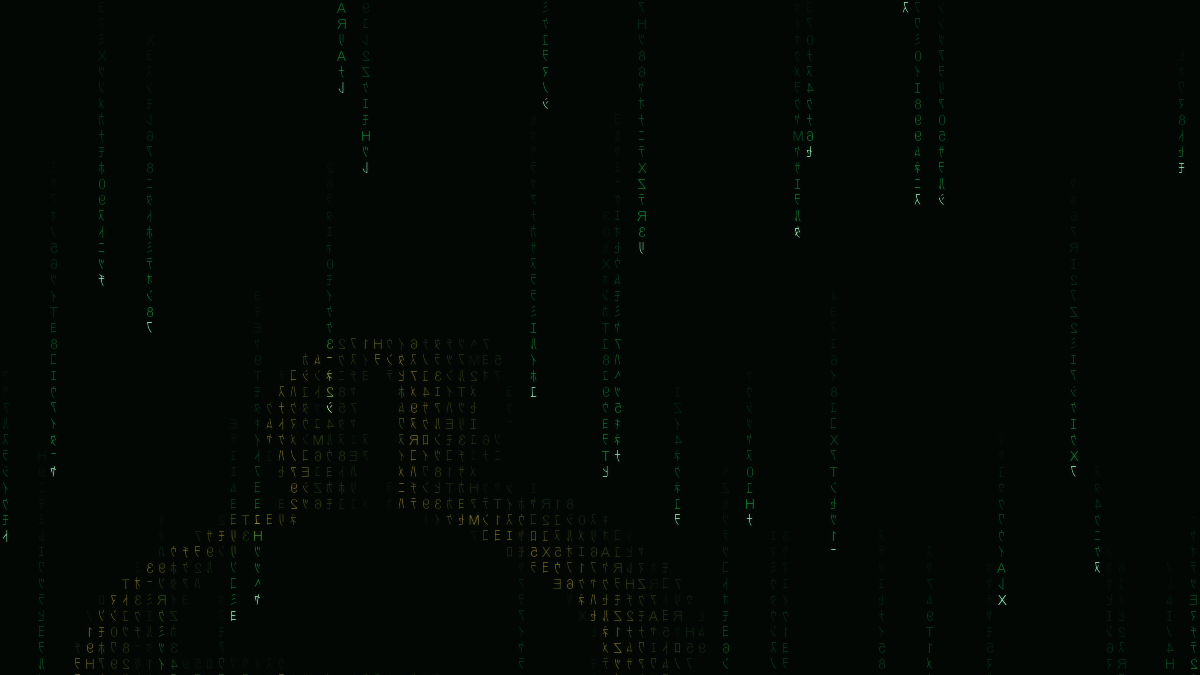
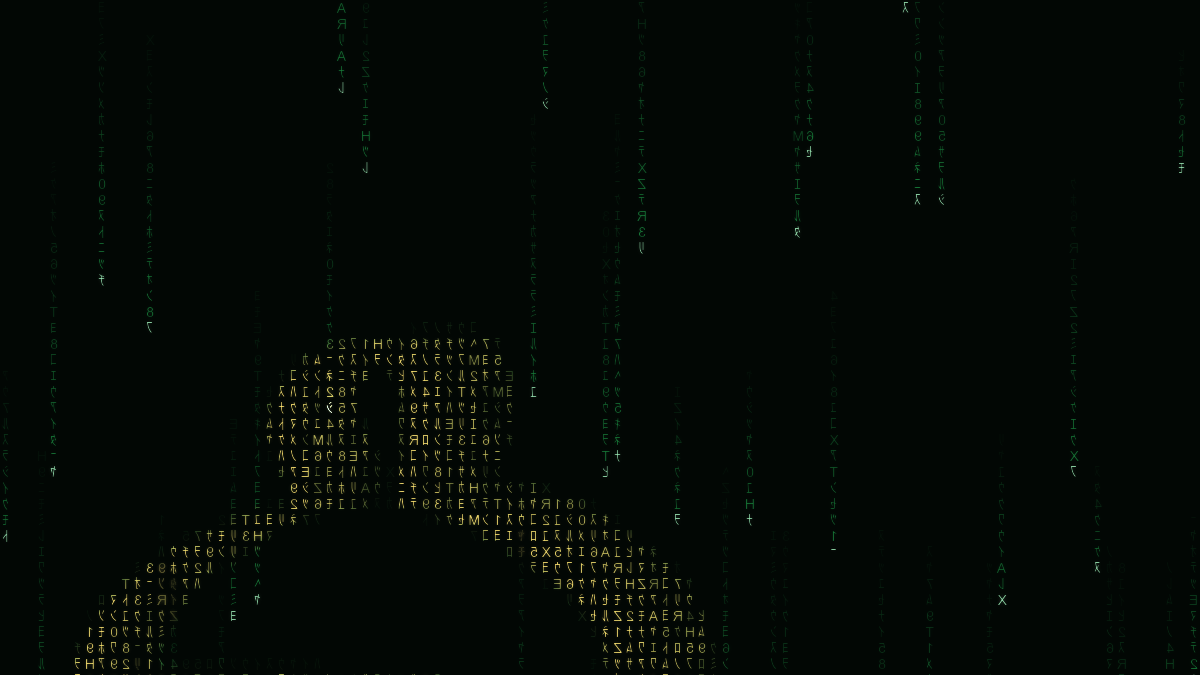
Docs: 5 s fade, brighter gold defaults, re-rendered motion images

diff --git a/docs/index.html b/docs/index.html
@@ -214,7 +214,7 @@ cd iterm2-matrix-rain
       <p class="note" style="margin: 10px 0 4px;">To turn it off, disable it and restart the daemon:</p>
       <pre class="cmd"><code>.venv/bin/matrix-rain camera disable</code></pre>
       <ul style="margin-top: 14px;">
-        <li>Where something moves, the rain draws a gold outline of it, then fades back to green over about 1.5 s.</li>
+        <li>Where something moves, the rain draws a gold outline of it, then fades back to green over about 5 s.</li>
         <li>New motion bursts brighter for the first 3 s, then settles.</li>
         <li>The camera opens only while the rain animates at full rate, so its light is off when idle.</li>
         <li>It reads a low-resolution motion mask.  Nothing is recorded or stored.</li>

diff --git a/README.md b/README.md
@@ -15,7 +15,7 @@ iTerm2 does not animate GIF backgrounds.  A small daemon renders soft PNG frames
 
 ## Camera motion (optional, off by default)
 
-With the camera turned on, the rain draws a gold outline around whatever moves in front of the Mac's camera, such as you, and fades back over a second and a half.  The gold is stronger for the first few seconds after you start moving.  It is off until you run `matrix-rain camera enable`, and nothing is recorded or stored.  See [Camera motion](#camera-motion) for details.
+With the camera turned on, the rain draws a gold outline around whatever moves in front of the Mac's camera, such as you, and fades back over about five seconds.  The gold is stronger for the first few seconds after you start moving.  It is off until you run `matrix-rain camera enable`, and nothing is recorded or stored.  See [Camera motion](#camera-motion) for details.
 
 ![Motion tint](docs/preview-motion.png)
 
@@ -163,17 +163,17 @@ pkill -f 'matrix[-_]rain daemon'; osascript ~/Library/Application\ Support/iTerm
 | Key under `[camera]` | Default | Meaning |
 |---|---|---|
 | `enabled` | `false` | Use the camera at all |
-| `tint` | `[230, 180, 60]` | Tail color where something moved |
-| `head_tint` | `[255, 232, 150]` | Head color where something moved |
-| `fade` | `1.5` | Seconds for a cell to return to normal after motion stops |
+| `tint` | `[250, 205, 80]` | Tail color where something moved |
+| `head_tint` | `[255, 245, 200]` | Head color where something moved |
+| `fade` | `5.0` | Seconds for a cell to return to normal after motion stops |
 | `sensitivity` | `0.5` | 0 reacts only to large changes, 1 to small ones too; 0.5 is a 24 gray-level threshold, which `camera test` prints |
 | `strength` | `1.0` | How far moving cells shift toward the tint, 0 to 1 |
 | `shape` | `"outline"` | `"outline"`: the gold edge of what moved; `"fill"`: the whole moving area |
 | `burst` | `3.0` | Seconds of stronger gold when motion starts after a rest |
 | `burst_rest` | `2.0` | Seconds of stillness before the next motion bursts |
-| `burst_strength` | `1.4` | Brightness multiplier for gold cells during a burst |
-| `burst_tint`, `burst_head_tint` | `[245, 200, 80]`, `[255, 245, 190]` | Tail and head colors during a burst |
-| `fill` | `0.4` | Dim glyphs lit in moving cells where no rain falls, so the shape reads; 0 turns it off |
+| `burst_strength` | `1.7` | Brightness multiplier for gold cells during a burst |
+| `burst_tint`, `burst_head_tint` | `[255, 220, 110]`, `[255, 252, 225]` | Tail and head colors during a burst |
+| `fill` | `0.7` | Dim glyphs lit in moving cells where no rain falls, so the shape reads; 0 turns it off |
 | `fps` | `10` | Camera frames per second; the camera is asked for this rate and extra frames are dropped |
 | `warmup` | `1.5` | Seconds after the camera opens before any tint, while the background settles |
 | `mirror` | `true` | Flip horizontally so motion reads like a mirror |
@@ -222,20 +222,20 @@ min_interval = 3600       # seconds between checks
 # animates at full rate, unless only_when_active = false.
 [camera]
 enabled = false
-tint = [230, 180, 60]        # tail color where something moved
-head_tint = [255, 232, 150]  # head color where something moved
-fade = 1.5                   # seconds for a cell to fade back after motion stops
+tint = [250, 205, 80]        # tail color where something moved
+head_tint = [255, 245, 200]  # head color where something moved
+fade = 5.0                   # seconds for a cell to fade back after motion stops
 sensitivity = 0.5            # 0 = only large changes, 1 = small changes too
 strength = 1.0               # 0..1, how far moving cells shift toward the tint
-fill = 0.4                   # 0..1, dim glyphs lit in moving cells where no rain falls; 0 = off
+fill = 0.7                   # 0..1, dim glyphs lit in moving cells where no rain falls; 0 = off
 fps = 10                     # camera frames per second (extra frames are dropped)
 warmup = 1.5                 # seconds after the camera opens before any tint
 shape = "outline"            # "outline": gold edge of what moved; "fill": the whole area
 burst = 3.0                  # seconds of stronger gold when motion starts after a rest
 burst_rest = 2.0             # seconds without motion before the next motion bursts
-burst_strength = 1.4         # brightness multiplier for moving cells during a burst
-burst_tint = [245, 200, 80]  # tail color during a burst
-burst_head_tint = [255, 245, 190]  # head color during a burst
+burst_strength = 1.7         # brightness multiplier for moving cells during a burst
+burst_tint = [255, 220, 110] # tail color during a burst
+burst_head_tint = [255, 252, 225]  # head color during a burst
 mirror = true                # move like a mirror image of you
 only_when_active = true      # open the camera only while iTerm2 is frontmost
 device = ""                  # part of a camera's name; empty = default camera
